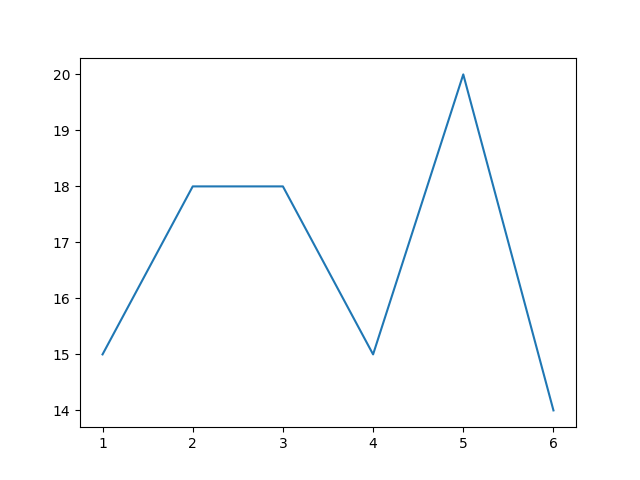
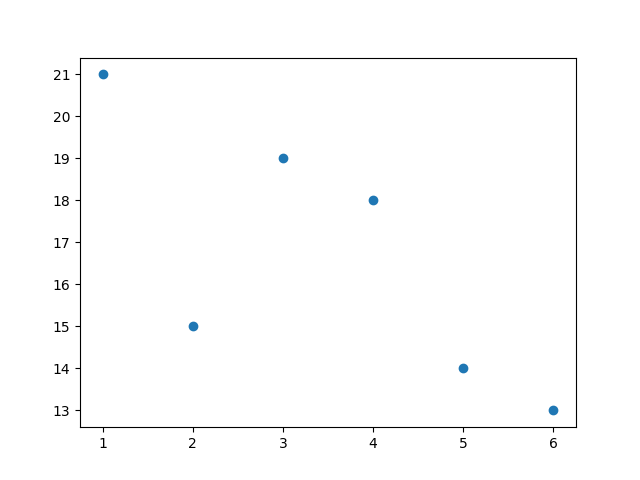
:bug: Change to scatter plot

diff --git a/Tegning-av-grafer/oppgave2.py b/Tegning-av-grafer/oppgave2.py
@@ -20,14 +20,14 @@ def main() -> None:
 
     # task 1. 100 throws
     throws = random_throws(100)
-    plt.plot(x, throws)
+    plt.scatter(x, throws)
     plt.savefig(path.join(BASE_PATH, "dice-throws-100.png"))
     plt.show()
 
     # task 2. Variable amount of throws
     number_of_throws = int(input("How many throws? "))
     throws = random_throws(number_of_throws=number_of_throws)
-    plt.plot(x, throws)
+    plt.scatter(x, throws)
     plt.savefig(path.join(BASE_PATH, f"dice-throws-{number_of_throws}.png"))
     plt.show()
 
